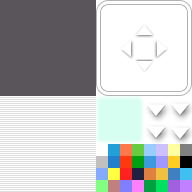
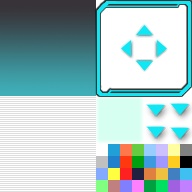
Assets add

diff --git a/js/plugins.js b/js/plugins.js
@@ -22,6 +22,7 @@ var $plugins =
 {"name":"SRD_CameraCore","status":true,"description":"Allows developers to preform various camera motions including focusing and zooming.","parameters":{"Default Zoom":"1","Zoom Pictures?":"true","Margin Formula":"(Graphics.width / scale) - Graphics.width","Fix Black Lines":"false"}},
 {"name":"SRD_AutoCamera","status":false,"description":"Allows developers to set the camera to move based on what regions the player moves onto.","parameters":{"Reset Duration":"30","== Camera Region 1 ==":"","Region 1 ID":"","Region 1 Focus":"","Region 1 Zoom":"","Region 1 Duration":"","== Camera Region 2 ==":"","Region 2 ID":"","Region 2 Focus":"","Region 2 Zoom":"","Region 2 Duration":"","== Camera Region 3 ==":"","Region 3 ID":"","Region 3 Focus":"","Region 3 Zoom":"","Region 3 Duration":"","== Camera Region 4 ==":"","Region 4 ID":"","Region 4 Focus":"","Region 4 Zoom":"","Region 4 Duration":"","== Camera Region 5 ==":"","Region 5 ID":"","Region 5 Focus":"","Region 5 Zoom":"","Region 5 Duration":"","== Camera Region 6 ==":"","Region 6 ID":"","Region 6 Focus":"","Region 6 Zoom":"","Region 6 Duration":"","== Camera Region 7 ==":"","Region 7 ID":"","Region 7 Focus":"","Region 7 Zoom":"","Region 7 Duration":"","== Camera Region 8 ==":"","Region 8 ID":"","Region 8 Focus":"","Region 8 Zoom":"","Region 8 Duration":"","== Camera Region 9 ==":"","Region 9 ID":"","Region 9 Focus":"","Region 9 Zoom":"","Region 9 Duration":"","== Camera Region 10 ==":"","Region 10 ID":"","Region 10 Focus":"","Region 10 Zoom":"","Region 10 Duration":"","== Camera Region 11 ==":"","Region 11 ID":"","Region 11 Focus":"","Region 11 Zoom":"","Region 11 Duration":"","== Camera Region 12 ==":"","Region 12 ID":"","Region 12 Focus":"","Region 12 Zoom":"","Region 12 Duration":"","== Camera Region 13 ==":"","Region 13 ID":"","Region 13 Focus":"","Region 13 Zoom":"","Region 13 Duration":"","== Camera Region 14 ==":"","Region 14 ID":"","Region 14 Focus":"","Region 14 Zoom":"","Region 14 Duration":"","== Camera Region 15 ==":"","Region 15 ID":"","Region 15 Focus":"","Region 15 Zoom":"","Region 15 Duration":"","== Camera Region 16 ==":"","Region 16 ID":"","Region 16 Focus":"","Region 16 Zoom":"","Region 16 Duration":"","== Camera Region 17 ==":"","Region 17 ID":"","Region 17 Focus":"","Region 17 Zoom":"","Region 17 Duration":"","== Camera Region 18 ==":"","Region 18 ID":"","Region 18 Focus":"","Region 18 Zoom":"","Region 18 Duration":"","== Camera Region 19 ==":"","Region 19 ID":"","Region 19 Focus":"","Region 19 Zoom":"","Region 19 Duration":"","== Camera Region 20 ==":"","Region 20 ID":"","Region 20 Focus":"","Region 20 Zoom":"","Region 20 Duration":"","== Camera Region 21 ==":"","Region 21 ID":"","Region 21 Focus":"","Region 21 Zoom":"","Region 21 Duration":"","== Camera Region 22 ==":"","Region 22 ID":"","Region 22 Focus":"","Region 22 Zoom":"","Region 22 Duration":"","== Camera Region 23 ==":"","Region 23 ID":"","Region 23 Focus":"","Region 23 Zoom":"","Region 23 Duration":"","== Camera Region 24 ==":"","Region 24 ID":"","Region 24 Focus":"","Region 24 Zoom":"","Region 24 Duration":"","== Camera Region 25 ==":"","Region 25 ID":"","Region 25 Focus":"","Region 25 Zoom":"","Region 25 Duration":"","== Camera Region 26 ==":"","Region 26 ID":"","Region 26 Focus":"","Region 26 Zoom":"","Region 26 Duration":"","== Camera Region 27 ==":"","Region 27 ID":"","Region 27 Focus":"","Region 27 Zoom":"","Region 27 Duration":"","== Camera Region 28 ==":"","Region 28 ID":"","Region 28 Focus":"","Region 28 Zoom":"","Region 28 Duration":"","== Camera Region 29 ==":"","Region 29 ID":"","Region 29 Focus":"","Region 29 Zoom":"","Region 29 Duration":"","== Camera Region 30 ==":"","Region 30 ID":"","Region 30 Focus":"","Region 30 Zoom":"","Region 30 Duration":"","== Camera Region 31 ==":"","Region 31 ID":"","Region 31 Focus":"","Region 31 Zoom":"","Region 31 Duration":"","== Camera Region 32 ==":"","Region 32 ID":"","Region 32 Focus":"","Region 32 Zoom":"","Region 32 Duration":"","== Camera Region 33 ==":"","Region 33 ID":"","Region 33 Focus":"","Region 33 Zoom":"","Region 33 Duration":"","== Camera Region 34 ==":"","Region 34 ID":"","Region 34 Focus":"","Region 34 Zoom":"","Region 34 Duration":"","== Camera Region 35 ==":"","Region 35 ID":"","Region 35 Focus":"","Region 35 Zoom":"","Region 35 Duration":"","== Camera Region 36 ==":"","Region 36 ID":"","Region 36 Focus":"","Region 36 Zoom":"","Region 36 Duration":"","== Camera Region 37 ==":"","Region 37 ID":"","Region 37 Focus":"","Region 37 Zoom":"","Region 37 Duration":"","== Camera Region 38 ==":"","Region 38 ID":"","Region 38 Focus":"","Region 38 Zoom":"","Region 38 Duration":"","== Camera Region 39 ==":"","Region 39 ID":"","Region 39 Focus":"","Region 39 Zoom":"","Region 39 Duration":"","== Camera Region 40 ==":"","Region 40 ID":"","Region 40 Focus":"","Region 40 Zoom":"","Region 40 Duration":"","== Camera Region 41 ==":"","Region 41 ID":"","Region 41 Focus":"","Region 41 Zoom":"","Region 41 Duration":"","== Camera Region 42 ==":"","Region 42 ID":"","Region 42 Focus":"","Region 42 Zoom":"","Region 42 Duration":"","== Camera Region 43 ==":"","Region 43 ID":"","Region 43 Focus":"","Region 43 Zoom":"","Region 43 Duration":"","== Camera Region 44 ==":"","Region 44 ID":"","Region 44 Focus":"","Region 44 Zoom":"","Region 44 Duration":"","== Camera Region 45 ==":"","Region 45 ID":"","Region 45 Focus":"","Region 45 Zoom":"","Region 45 Duration":"","== Camera Region 46 ==":"","Region 46 ID":"","Region 46 Focus":"","Region 46 Zoom":"","Region 46 Duration":"","== Camera Region 47 ==":"","Region 47 ID":"","Region 47 Focus":"","Region 47 Zoom":"","Region 47 Duration":"","== Camera Region 48 ==":"","Region 48 ID":"","Region 48 Focus":"","Region 48 Zoom":"","Region 48 Duration":"","== Camera Region 49 ==":"","Region 49 ID":"","Region 49 Focus":"","Region 49 Zoom":"","Region 49 Duration":"","== Camera Region 50 ==":"","Region 50 ID":"","Region 50 Focus":"","Region 50 Zoom":"","Region 50 Duration":"","== Camera Region 51 ==":"","Region 51 ID":"","Region 51 Focus":"","Region 51 Zoom":"","Region 51 Duration":"","== Camera Region 52 ==":"","Region 52 ID":"","Region 52 Focus":"","Region 52 Zoom":"","Region 52 Duration":"","== Camera Region 53 ==":"","Region 53 ID":"","Region 53 Focus":"","Region 53 Zoom":"","Region 53 Duration":"","== Camera Region 54 ==":"","Region 54 ID":"","Region 54 Focus":"","Region 54 Zoom":"","Region 54 Duration":"","== Camera Region 55 ==":"","Region 55 ID":"","Region 55 Focus":"","Region 55 Zoom":"","Region 55 Duration":"","== Camera Region 56 ==":"","Region 56 ID":"","Region 56 Focus":"","Region 56 Zoom":"","Region 56 Duration":"","== Camera Region 57 ==":"","Region 57 ID":"","Region 57 Focus":"","Region 57 Zoom":"","Region 57 Duration":"","== Camera Region 58 ==":"","Region 58 ID":"","Region 58 Focus":"","Region 58 Zoom":"","Region 58 Duration":"","== Camera Region 59 ==":"","Region 59 ID":"","Region 59 Focus":"","Region 59 Zoom":"","Region 59 Duration":"","== Camera Region 60 ==":"","Region 60 ID":"","Region 60 Focus":"","Region 60 Zoom":"","Region 60 Duration":"","== Camera Region 61 ==":"","Region 61 ID":"","Region 61 Focus":"","Region 61 Zoom":"","Region 61 Duration":"","== Camera Region 62 ==":"","Region 62 ID":"","Region 62 Focus":"","Region 62 Zoom":"","Region 62 Duration":"","== Camera Region 63 ==":"","Region 63 ID":"","Region 63 Focus":"","Region 63 Zoom":"","Region 63 Duration":"","== Camera Region 64 ==":"","Region 64 ID":"","Region 64 Focus":"","Region 64 Zoom":"","Region 64 Duration":"","== Camera Region 65 ==":"","Region 65 ID":"","Region 65 Focus":"","Region 65 Zoom":"","Region 65 Duration":"","== Camera Region 66 ==":"","Region 66 ID":"","Region 66 Focus":"","Region 66 Zoom":"","Region 66 Duration":"","== Camera Region 67 ==":"","Region 67 ID":"","Region 67 Focus":"","Region 67 Zoom":"","Region 67 Duration":"","== Camera Region 68 ==":"","Region 68 ID":"","Region 68 Focus":"","Region 68 Zoom":"","Region 68 Duration":"","== Camera Region 69 ==":"","Region 69 ID":"","Region 69 Focus":"","Region 69 Zoom":"","Region 69 Duration":"","== Camera Region 70 ==":"","Region 70 ID":"","Region 70 Focus":"","Region 70 Zoom":"","Region 70 Duration":"","== Camera Region 71 ==":"","Region 71 ID":"","Region 71 Focus":"","Region 71 Zoom":"","Region 71 Duration":"","== Camera Region 72 ==":"","Region 72 ID":"","Region 72 Focus":"","Region 72 Zoom":"","Region 72 Duration":"","== Camera Region 73 ==":"","Region 73 ID":"","Region 73 Focus":"","Region 73 Zoom":"","Region 73 Duration":"","== Camera Region 74 ==":"","Region 74 ID":"","Region 74 Focus":"","Region 74 Zoom":"","Region 74 Duration":"","== Camera Region 75 ==":"","Region 75 ID":"","Region 75 Focus":"","Region 75 Zoom":"","Region 75 Duration":"","== Camera Region 76 ==":"","Region 76 ID":"","Region 76 Focus":"","Region 76 Zoom":"","Region 76 Duration":"","== Camera Region 77 ==":"","Region 77 ID":"","Region 77 Focus":"","Region 77 Zoom":"","Region 77 Duration":"","== Camera Region 78 ==":"","Region 78 ID":"","Region 78 Focus":"","Region 78 Zoom":"","Region 78 Duration":"","== Camera Region 79 ==":"","Region 79 ID":"","Region 79 Focus":"","Region 79 Zoom":"","Region 79 Duration":"","== Camera Region 80 ==":"","Region 80 ID":"","Region 80 Focus":"","Region 80 Zoom":"","Region 80 Duration":"","== Camera Region 81 ==":"","Region 81 ID":"","Region 81 Focus":"","Region 81 Zoom":"","Region 81 Duration":"","== Camera Region 82 ==":"","Region 82 ID":"","Region 82 Focus":"","Region 82 Zoom":"","Region 82 Duration":"","== Camera Region 83 ==":"","Region 83 ID":"","Region 83 Focus":"","Region 83 Zoom":"","Region 83 Duration":"","== Camera Region 84 ==":"","Region 84 ID":"","Region 84 Focus":"","Region 84 Zoom":"","Region 84 Duration":"","== Camera Region 85 ==":"","Region 85 ID":"","Region 85 Focus":"","Region 85 Zoom":"","Region 85 Duration":"","== Camera Region 86 ==":"","Region 86 ID":"","Region 86 Focus":"","Region 86 Zoom":"","Region 86 Duration":"","== Camera Region 87 ==":"","Region 87 ID":"","Region 87 Focus":"","Region 87 Zoom":"","Region 87 Duration":"","== Camera Region 88 ==":"","Region 88 ID":"","Region 88 Focus":"","Region 88 Zoom":"","Region 88 Duration":"","== Camera Region 89 ==":"","Region 89 ID":"","Region 89 Focus":"","Region 89 Zoom":"","Region 89 Duration":"","== Camera Region 90 ==":"","Region 90 ID":"","Region 90 Focus":"","Region 90 Zoom":"","Region 90 Duration":"","== Camera Region 91 ==":"","Region 91 ID":"","Region 91 Focus":"","Region 91 Zoom":"","Region 91 Duration":"","== Camera Region 92 ==":"","Region 92 ID":"","Region 92 Focus":"","Region 92 Zoom":"","Region 92 Duration":"","== Camera Region 93 ==":"","Region 93 ID":"","Region 93 Focus":"","Region 93 Zoom":"","Region 93 Duration":"","== Camera Region 94 ==":"","Region 94 ID":"","Region 94 Focus":"","Region 94 Zoom":"","Region 94 Duration":"","== Camera Region 95 ==":"","Region 95 ID":"","Region 95 Focus":"","Region 95 Zoom":"","Region 95 Duration":"","== Camera Region 96 ==":"","Region 96 ID":"","Region 96 Focus":"","Region 96 Zoom":"","Region 96 Duration":"","== Camera Region 97 ==":"","Region 97 ID":"","Region 97 Focus":"","Region 97 Zoom":"","Region 97 Duration":"","== Camera Region 98 ==":"","Region 98 ID":"","Region 98 Focus":"","Region 98 Zoom":"","Region 98 Duration":"","== Camera Region 99 ==":"","Region 99 ID":"","Region 99 Focus":"","Region 99 Zoom":"","Region 99 Duration":"","== Camera Region 100 ==":"","Region 100 ID":"","Region 100 Focus":"","Region 100 Zoom":"","Region 100 Duration":""}},
 {"name":"SRD_SmoothCamera","status":true,"description":"Gives the camera of your game smoother motion during gameplay and specific camera motions.","parameters":{"Delay Power":"5","Cut Off Value":"0.02"}},
+{"name":"SRD_WindowSkinOption","status":true,"description":"Adds a Window Skin selector to the Options Window that allows the Player to choose a Window Skin for the game.","parameters":{"Option Name":"Window Skin","Position":"Middle","== Default Skin ==":"","Default Skin Name":"Cyber","== Window Skin 1 ==":"","Skin 1 File":"Window1","Skin 1 Name":"Machine","Skin 1 Switch":"","== Window Skin 2 ==":"","Skin 2 File":"Window3","Skin 2 Name":"Calculator","Skin 2 Switch":"","== Window Skin 3 ==":"","Skin 3 File":"","Skin 3 Name":"","Skin 3 Switch":"","== Window Skin 4 ==":"","Skin 4 File":"","Skin 4 Name":"","Skin 4 Switch":"","== Window Skin 5 ==":"","Skin 5 File":"","Skin 5 Name":"","Skin 5 Switch":"","== Window Skin 6 ==":"","Skin 6 File":"","Skin 6 Name":"","Skin 6 Switch":"","== Window Skin 7 ==":"","Skin 7 File":"","Skin 7 Name":"","Skin 7 Switch":"","== Window Skin 8 ==":"","Skin 8 File":"","Skin 8 Name":"","Skin 8 Switch":"","== Window Skin 9 ==":"","Skin 9 File":"","Skin 9 Name":"","Skin 9 Switch":"","== Window Skin 10 ==":"","Skin 10 File":"","Skin 10 Name":"","Skin 10 Switch":"","== Window Skin 11 ==":"","Skin 11 File":"","Skin 11 Name":"","Skin 11 Switch":"","== Window Skin 12 ==":"","Skin 12 File":"","Skin 12 Name":"","Skin 12 Switch":"","== Window Skin 13 ==":"","Skin 13 File":"","Skin 13 Name":"","Skin 13 Switch":"","== Window Skin 14 ==":"","Skin 14 File":"","Skin 14 Name":"","Skin 14 Switch":"","== Window Skin 15 ==":"","Skin 15 File":"","Skin 15 Name":"","Skin 15 Switch":"","== Window Skin 16 ==":"","Skin 16 File":"","Skin 16 Name":"","Skin 16 Switch":"","== Window Skin 17 ==":"","Skin 17 File":"","Skin 17 Name":"","Skin 17 Switch":"","== Window Skin 18 ==":"","Skin 18 File":"","Skin 18 Name":"","Skin 18 Switch":"","== Window Skin 19 ==":"","Skin 19 File":"","Skin 19 Name":"","Skin 19 Switch":"","== Window Skin 20 ==":"","Skin 20 File":"","Skin 20 Name":"","Skin 20 Switch":"","== Window Skin 21 ==":"","Skin 21 File":"","Skin 21 Name":"","Skin 21 Switch":"","== Window Skin 22 ==":"","Skin 22 File":"","Skin 22 Name":"","Skin 22 Switch":"","== Window Skin 23 ==":"","Skin 23 File":"","Skin 23 Name":"","Skin 23 Switch":"","== Window Skin 24 ==":"","Skin 24 File":"","Skin 24 Name":"","Skin 24 Switch":"","== Window Skin 25 ==":"","Skin 25 File":"","Skin 25 Name":"","Skin 25 Switch":"","== Window Skin 26 ==":"","Skin 26 File":"","Skin 26 Name":"","Skin 26 Switch":"","== Window Skin 27 ==":"","Skin 27 File":"","Skin 27 Name":"","Skin 27 Switch":"","== Window Skin 28 ==":"","Skin 28 File":"","Skin 28 Name":"","Skin 28 Switch":"","== Window Skin 29 ==":"","Skin 29 File":"","Skin 29 Name":"","Skin 29 Switch":"","== Window Skin 30 ==":"","Skin 30 File":"","Skin 30 Name":"","Skin 30 Switch":"","== Window Skin 31 ==":"","Skin 31 File":"","Skin 31 Name":"","Skin 31 Switch":"","== Window Skin 32 ==":"","Skin 32 File":"","Skin 32 Name":"","Skin 32 Switch":"","== Window Skin 33 ==":"","Skin 33 File":"","Skin 33 Name":"","Skin 33 Switch":"","== Window Skin 34 ==":"","Skin 34 File":"","Skin 34 Name":"","Skin 34 Switch":"","== Window Skin 35 ==":"","Skin 35 File":"","Skin 35 Name":"","Skin 35 Switch":"","== Window Skin 36 ==":"","Skin 36 File":"","Skin 36 Name":"","Skin 36 Switch":"","== Window Skin 37 ==":"","Skin 37 File":"","Skin 37 Name":"","Skin 37 Switch":"","== Window Skin 38 ==":"","Skin 38 File":"","Skin 38 Name":"","Skin 38 Switch":"","== Window Skin 39 ==":"","Skin 39 File":"","Skin 39 Name":"","Skin 39 Switch":"","== Window Skin 40 ==":"","Skin 40 File":"","Skin 40 Name":"","Skin 40 Switch":"","== Window Skin 41 ==":"","Skin 41 File":"","Skin 41 Name":"","Skin 41 Switch":"","== Window Skin 42 ==":"","Skin 42 File":"","Skin 42 Name":"","Skin 42 Switch":"","== Window Skin 43 ==":"","Skin 43 File":"","Skin 43 Name":"","Skin 43 Switch":"","== Window Skin 44 ==":"","Skin 44 File":"","Skin 44 Name":"","Skin 44 Switch":"","== Window Skin 45 ==":"","Skin 45 File":"","Skin 45 Name":"","Skin 45 Switch":"","== Window Skin 46 ==":"","Skin 46 File":"","Skin 46 Name":"","Skin 46 Switch":"","== Window Skin 47 ==":"","Skin 47 File":"","Skin 47 Name":"","Skin 47 Switch":"","== Window Skin 48 ==":"","Skin 48 File":"","Skin 48 Name":"","Skin 48 Switch":"","== Window Skin 49 ==":"","Skin 49 File":"","Skin 49 Name":"","Skin 49 Switch":"","== Window Skin 50 ==":"","Skin 50 File":"","Skin 50 Name":"","Skin 50 Switch":""}},
 {"name":"--------------------","status":false,"description":"------------------------------------------------------------","parameters":{}},
 {"name":"OrangeCustomEvents","status":true,"description":"This plugin Will let you add or copy events to the current map","parameters":{}},
 {"name":"OrangeCustomEventCreator","status":true,"description":"This plugin Will let you create virtual events with script calls","parameters":{}},
